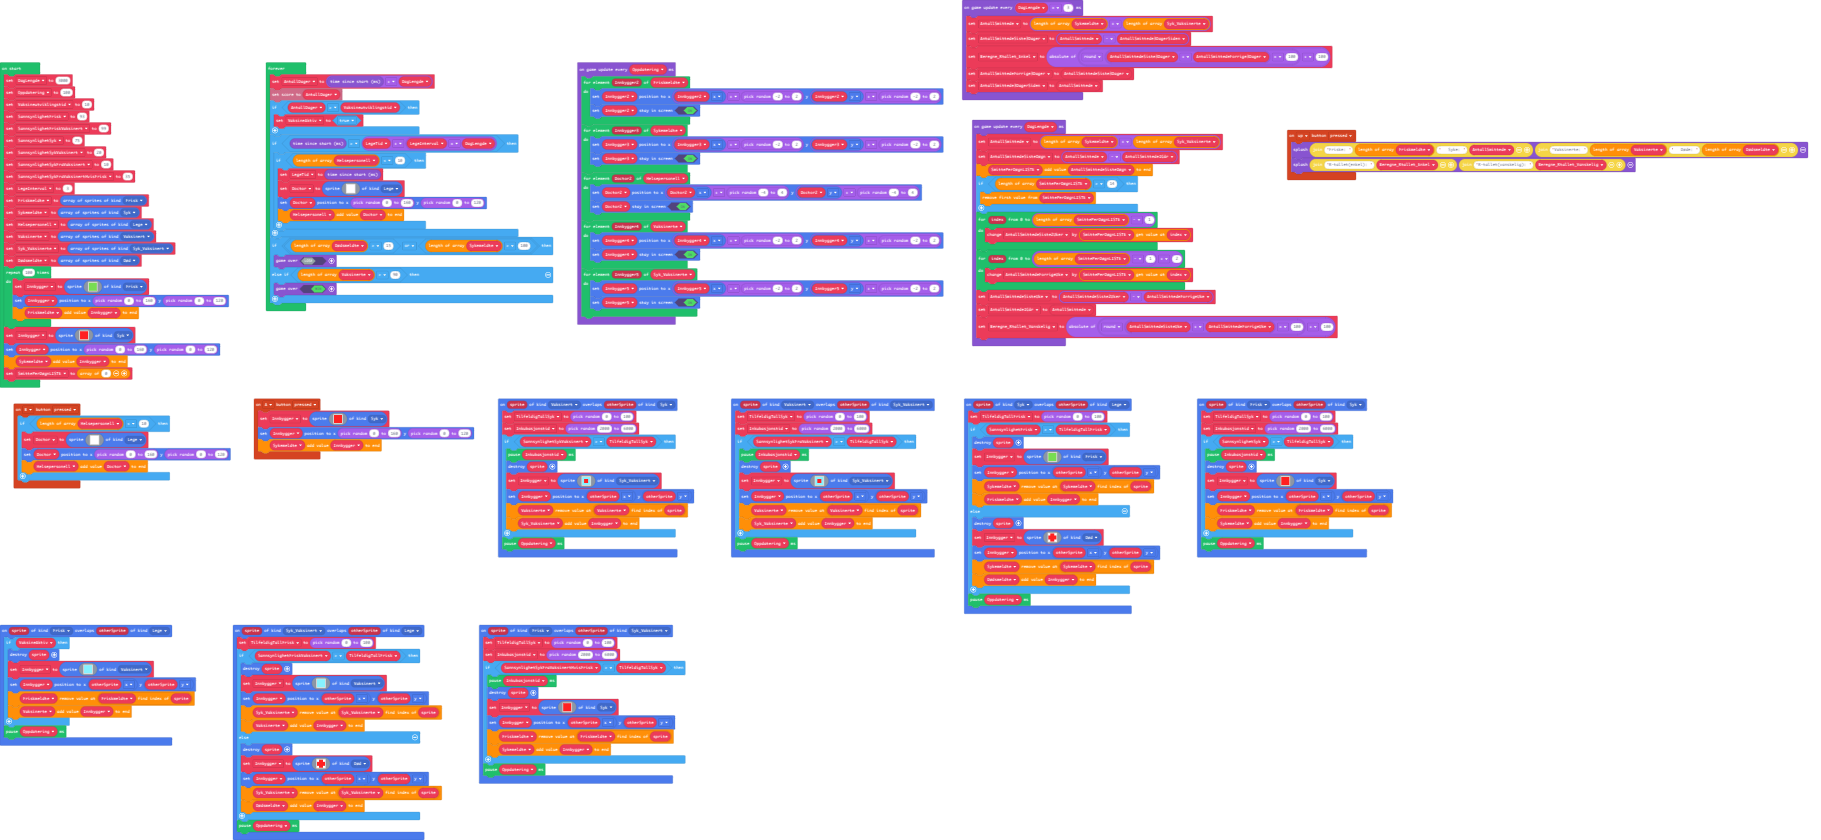
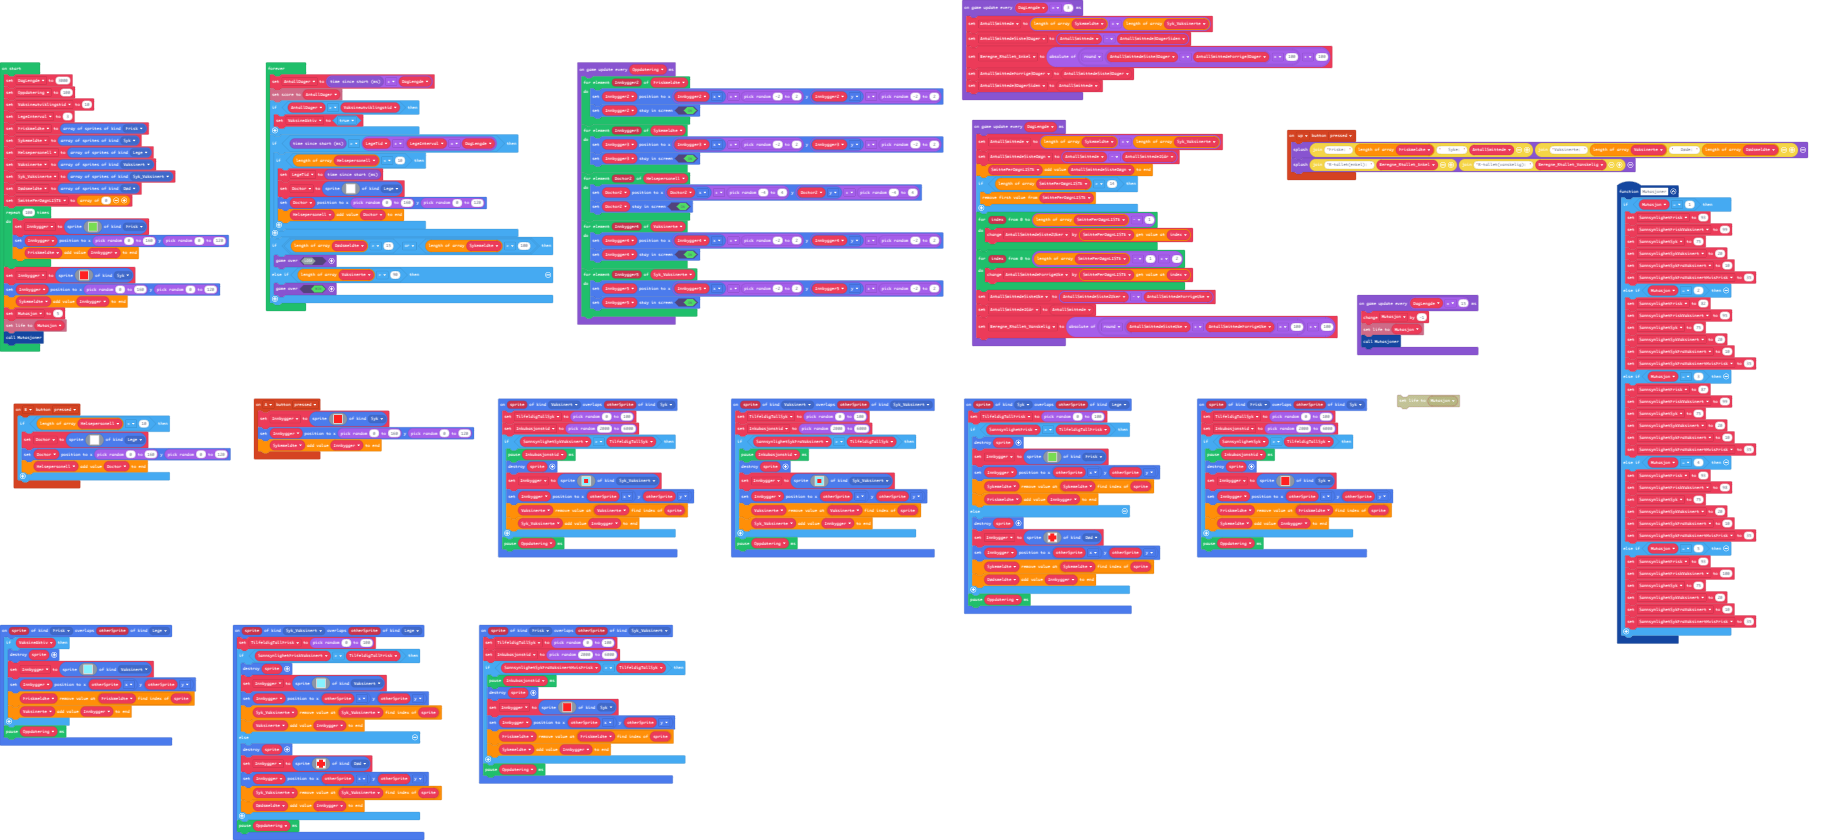
Update main.blocks, main.ts

diff --git a/main.ts b/main.ts
@@ -67,6 +67,44 @@ sprites.onOverlap(SpriteKind.Frisk, SpriteKind.Lege, function (sprite, otherSpri
     }
     pause(Oppdatering)
 })
+function Mutasjoner () {
+    if (Mutasjon == 1) {
+        SannsynlighetFrisk = 93
+        SannsynlighetFriskVaksinert = 99
+        SannsynlighetSyk = 75
+        SannsynlighetSykVaksinert = 20
+        SannsynlighetSykFraVaksinert = 10
+        SannsynlighetSykFraVaksinertHvisFrisk = 35
+    } else if (Mutasjon == 2) {
+        SannsynlighetFrisk = 82
+        SannsynlighetFriskVaksinert = 95
+        SannsynlighetSyk = 75
+        SannsynlighetSykVaksinert = 20
+        SannsynlighetSykFraVaksinert = 10
+        SannsynlighetSykFraVaksinertHvisFrisk = 35
+    } else if (Mutasjon == 3) {
+        SannsynlighetFrisk = 87
+        SannsynlighetFriskVaksinert = 99
+        SannsynlighetSyk = 75
+        SannsynlighetSykVaksinert = 20
+        SannsynlighetSykFraVaksinert = 10
+        SannsynlighetSykFraVaksinertHvisFrisk = 35
+    } else if (Mutasjon == 4) {
+        SannsynlighetFrisk = 93
+        SannsynlighetFriskVaksinert = 98
+        SannsynlighetSyk = 75
+        SannsynlighetSykVaksinert = 20
+        SannsynlighetSykFraVaksinert = 10
+        SannsynlighetSykFraVaksinertHvisFrisk = 35
+    } else if (Mutasjon == 5) {
+        SannsynlighetFrisk = 93
+        SannsynlighetFriskVaksinert = 100
+        SannsynlighetSyk = 75
+        SannsynlighetSykVaksinert = 20
+        SannsynlighetSykFraVaksinert = 10
+        SannsynlighetSykFraVaksinertHvisFrisk = 35
+    }
+}
 sprites.onOverlap(SpriteKind.Vaksinert, SpriteKind.Syk_Vaksinert, function (sprite, otherSprite) {
     TilfeldigTallSyk = randint(0, 100)
     Inkubasjonstid = randint(2000, 6000)
@@ -186,13 +224,20 @@ let AntallSmittedeForrige3Dager = 0
 let AntallSmittede3DagerSiden = 0
 let AntallSmittedeSiste3Dager = 0
 let TilfeldigTallFrisk = 0
+let SannsynlighetSykFraVaksinertHvisFrisk = 0
+let SannsynlighetSykFraVaksinert = 0
+let SannsynlighetSykVaksinert = 0
+let SannsynlighetFriskVaksinert = 0
+let SannsynlighetFrisk = 0
 let VaksineAktiv = false
+let SannsynlighetSyk = 0
 let Inkubasjonstid = 0
 let TilfeldigTallSyk = 0
 let Doctor: Sprite = null
 let Beregne_Rtallet_Vanskelig = 0
 let Beregne_Rtallet_Enkel = 0
 let AntallSmittede = 0
+let Mutasjon = 0
 let Innbygger: Sprite = null
 let Dødsmeldte: Sprite[] = []
 let Syk_Vaksinerte: Sprite[] = []
@@ -200,22 +245,10 @@ let Vaksinerte: Sprite[] = []
 let Helsepersonell: Sprite[] = []
 let Sykemeldte: Sprite[] = []
 let Friskmeldte: Sprite[] = []
-let SannsynlighetSykFraVaksinertHvisFrisk = 0
-let SannsynlighetSykFraVaksinert = 0
-let SannsynlighetSykVaksinert = 0
-let SannsynlighetSyk = 0
-let SannsynlighetFriskVaksinert = 0
-let SannsynlighetFrisk = 0
 let Oppdatering = 0
 let DagLengde = 3000
 Oppdatering = 100
 let Vaksineutviklingstid = 10
-SannsynlighetFrisk = 93
-SannsynlighetFriskVaksinert = 99
-SannsynlighetSyk = 75
-SannsynlighetSykVaksinert = 20
-SannsynlighetSykFraVaksinert = 10
-SannsynlighetSykFraVaksinertHvisFrisk = 35
 let LegeInterval = 3
 Friskmeldte = sprites.allOfKind(SpriteKind.Frisk)
 Sykemeldte = sprites.allOfKind(SpriteKind.Syk)
@@ -223,6 +256,7 @@ Helsepersonell = sprites.allOfKind(SpriteKind.Lege)
 Vaksinerte = sprites.allOfKind(SpriteKind.Vaksinert)
 Syk_Vaksinerte = sprites.allOfKind(SpriteKind.Syk_Vaksinert)
 Dødsmeldte = sprites.allOfKind(SpriteKind.Død)
+let SmittePerDøgnLISTE = [0]
 for (let index = 0; index < 100; index++) {
     Innbygger = sprites.create(img`
         7 7 7 7 
@@ -241,7 +275,9 @@ Innbygger = sprites.create(img`
     `, SpriteKind.Syk)
 Innbygger.setPosition(randint(0, 160), randint(0, 120))
 Sykemeldte.push(Innbygger)
-let SmittePerDøgnLISTE = [0]
+Mutasjon = 5
+info.setLife(Mutasjon)
+Mutasjoner()
 game.onUpdateInterval(DagLengde * 3, function () {
     AntallSmittede = Sykemeldte.length + Syk_Vaksinerte.length
     AntallSmittedeSiste3Dager = AntallSmittede - AntallSmittede3DagerSiden
@@ -312,4 +348,9 @@ game.onUpdateInterval(Oppdatering, function () {
         Innbygger5.setPosition(Innbygger5.x + randint(-2, 2), Innbygger5.y + randint(-2, 2))
         Innbygger5.setStayInScreen(true)
     }
+})
+game.onUpdateInterval(DagLengde * 15, function () {
+    Mutasjon += -1
+    info.setLife(Mutasjon)
+    Mutasjoner()
 })
